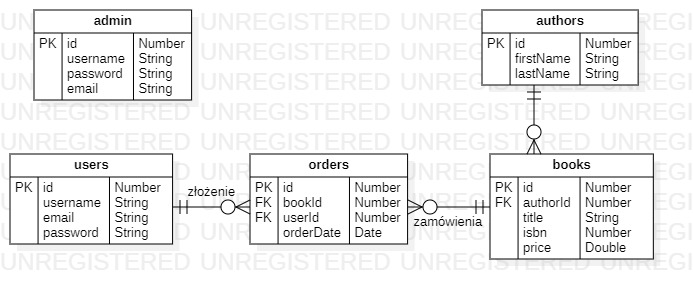
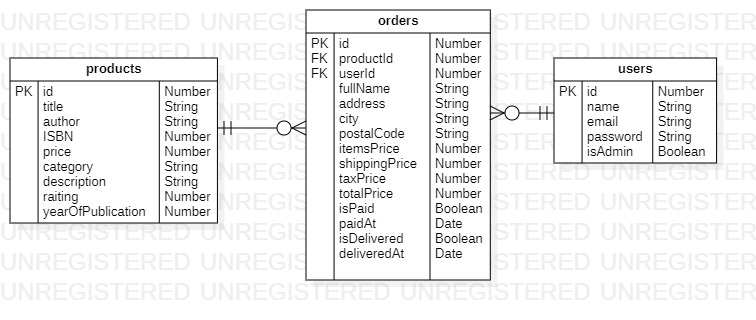
correct ReadMe and userModel

diff --git a/backend/models/userModel.js b/backend/models/userModel.js
@@ -3,8 +3,6 @@ import mongoose from "mongoose";
 const userSchema = new mongoose.Schema(
   {
     name: { type: String, required: true },
-    lastName: { type: String, required: true },
-    login: { type: String, required: true },
     email: { type: String, required: true, unique: true },
     password: { type: String, required: true },
     isAdmin: { type: Boolean, default: false, required: true },

diff --git a/backend/models/orderModel.js b/backend/models/orderModel.js
@@ -21,7 +21,6 @@ const orderSchema = new mongoose.Schema(
       address: { type: String, required: true },
       city: { type: String, required: true },
       postalCode: { type: String, required: true },
-      country: { type: String, required: true },
     },
     itemsPrice: { type: Number, required: true },
     shippingPrice: { type: Number, required: true },

diff --git a/README.md b/README.md
@@ -54,8 +54,10 @@ Użytkownicy będą mogli:
 &nbsp;&nbsp;
 # 2. Dokumentacja techniczna
 ## Architektura
-![architektura.png](src_readme/architektura.png)
+<div align="center">
 
+![architektura.png](src_readme/architektura.png)
+</div>
 Strona internetowa księgarni składa się z:
 - frontendu napisanego w bibliotece JavaScriptu jaką jest Reactjs
 - backendu napisanego w Nodejs
@@ -73,8 +75,10 @@ Strona internetowa księgarni składa się z:
 Środowisko pracy jest gotowe!
 
 ## Struktura bazy danych
-![baza_danych.png](src_readme/bazaDanych.jpg)
+<div align="center">
 
+![baza_danych.png](src_readme/ERDDiagram1.jpg)
+</div>
 Zalogowany użytkownik dokonuje zamówienia. Może on dokonać większej liczby zamówień, jednak jedno zamówienie jest przypisane dokładnie do jednego użytkownika. To samo dotyczy książki występującej w kilku zamówieniach jednak każde zamówienie jest przypisane do jednej książki. Podobnie jest z autorami: jeden autor może posiadać kilka książek jednak jedna książka posiada dokładnie jednego autora.
 
 Skróty:
@@ -82,131 +86,166 @@ Skróty:
 * FK - oznacza klucz obcy, który wskazuje na klucz główny innej tabeli np. w tabeli books klucz obcy wskazuje na klucz główny z tabeli authors.
 
 ## Rejsetracja
-![Rejestracja.jpg](src_readme/Rejestracja.jpg)
+<div align="center">
 
+![Rejestracja.jpg](src_readme/Rejestracja.jpg)
+</div>
 Klient wprowadza dane potrzebne do rejestracji w formularzu. Następnie po zatwierdzeniu danych, Strona dokonuje walidacji danych(sprawdzenie czy podany ciąg znaków w e-mailu to na pewno e-mail, długość podanego hasła). Po tej operacji wysyłane jest zapytanie do Bazy danych, czy znajduje się w niej użytkownik o podanych danych z formularza. Po tym sprawdzeniu Strona wysyła Klientowi odpowiedni komunikat.
 
 ## Logowanie
-![Logowanie.jpg](src_readme/Logowanie.jpg)
+<div align="center">
 
+![Logowanie.jpg](src_readme/Logowanie.jpg)
+</div>
 Klient wypełnia formularz jaki znajduje się na stronie logowania. Następnie wysłane przez Klienta dane są poddane walidacji, potem wysyłane jest zapytanie do Bazy danych czy istnieje użytkownik o podanych danych. Baza danych zwraca odpowiedź i w zależności od tej odpowiedzi Strona przekazuje Klientowi komunikat.
 ## Kod
 ### Server
-![server.jpg](src_readme/server.png)
+<div align="center">
 
+![server.jpg](src_readme/server.png)
+</div>
 W liniach od 12 do 19 następuje połączenie z bazą danych(MongoDb). W liniach 22 i 23 następuje wywołanie wbudowanych funkcji middleware wbudowanych w expressJs.
 Pierwsza z nich analizuje przychodzące żądania JSON i umieszcza przeanalizowane dane w właściowści req.body. Natomiast druga rozpoznaje nadchodzący obiekt żądania jako łańcuch znaków(string) lub tablicę. W liniach 24-28 przedstawiono jakie funkcje będą wywoływane gdy żądanie będzie zawierało określoną ścieżkę. Do zmiennej __dirname przypisywana jest bezwzględna ścieżka do bieżącego folderu. W linii 31 funkcja static znajduje i zwraca pliki statyczne z podanej ścieżki. W kolejnej linii za pomocą GET-a wysyłany jest plik index.html. Natomiast w linii 38 następuje przypisanie numeru portu(jeżeli nie jest przypisana żadna wartość do zmiennej środowiskowej przypisz zmiennej wartość 5000). Następnie funkcja listen wiąże i nasłuchuje połączeń na localhoscie.
 
 ### Utils
-![utilsgenerateToken.jpg](src_readme/utilsgenerateToken.png)
+<div align="center">
 
+![utilsgenerateToken.jpg](src_readme/utilsgenerateToken.png)
+</div>
 Tworzony jest token dla danego użytkownika, który jest ważny przez 30 dni. JWT(JSON Web Token) to standard za pomocą, którego przesyłane są informacje, w obiekcie JSON, między stronami. W liniach 5-8 znajdują się dane użytkownika, w linii 10 jest sekretny klucz/token potrzebny przy tworzeniu tokenu użytkownika a linia 12 to ustawienie opcji kiedy wygaśnie token.
+<div align="center">
 
 ![utilsisAuth.jpg](src_readme/utilsisAuth.png)
-
+</div>
 Do zmiennej authorization przekazywana jest wartość jaką zawiera nagłówek w sekcji authorization. Jeżeli authorization jest nullem zostanie wysłany komunikat o braku tokenu. W przeciwnym razie sprawdzany jest token jaki został przesłany w nagłówku. Jeżeli token jest błędny zwrócona zostanie odpowiednia informacja o błędzie, natomiast jeżeli token jest poprawny to do właściwości żądania(req.user) zostanie przypisana zakodowana wartość tokenu.
+<div align="center">
 
 ![utilsisAdmin.jpg](src_readme/utilsisAdmin.png)
-
+</div>
 Sprawdzenie czy dany użytkownik posiada uprawnienia administratora, jeżeli nie zostanie wysłany odpowiedni komunikat. W przeciwnym wypadku następuje przejście do panelu administratora.
 
 ### SeedRouter
-![seedRoutes.jpg](src_readme/seedRoutes.png)
+<div align="center">
 
+![seedRoutes.jpg](src_readme/seedRoutes.png)
+</div>
 Gdy użytkownik otworzy stronę główną zostanie wykonana asynchroniczna funkcja, która w linii 9 oraz 11 usunie wcześniejsze rekordy produktów oraz użytkowników. Następnie utworzy tablice produktów i użytkowników(linie 10 i 12), które są wysyłane jako odpowiedź dla żądania.
 
 ### ProductRouter
-![productRoutes.jpg](src_readme/productRoutes.png)
+<div align="center">
 
+![productRoutes.jpg](src_readme/productRoutes.png)
+</div>
 Podobnie jak w seedRouter.js po otworzeniu strony głównej(chodzi o metodę GET) wykona się asynchroniczna funkcja, która wyszuka wszystkie produkty i zapisze je do tablicy products, która następnie zostanie wysłana jako odpowiedź, by w seedRouter zostać usunięta.  Natomiast metoda POST dla strony głównej wykona funkcję tworzącą nowy produkt, jest ona dostępna tylko dla klientów posiadających konto w księgarni lub administratora.
+<div align="center">
 
 ![productRouteP2.jpg](src_readme/productRouteP2.png)
-
+</div>
 Metoda PUT wywołuje asynchroniczną funkcję, która wykonuje modyfikację produktu, którego id zostało podane jako parametr w URL. Jeżeli nie istnieje produkt o podanym id to zwracany jest komunikat o błędzie.
+<div align="center">
 
 ![productRouteP3.jpg](src_readme/productRouteP3.png)
-
+</div>
 Metoda DELETE umożliwia, uprawnionym do tego użytkownikom, usunięcie produktu o podanym w parametrze numerze id. Natomiast metoda GET, wywołuje funkcję tworzącą listę produktów. Najpierw tworzy ona obiekt query na podstawie req(obiektu żądania) i przypisuje do stałych page i pageSize wartość odpowiednich pól obiektu query, jeżeli pole tego obiektu nie posiada żadnej wartości to do stałej przypisywana jest druga z możliwych wartości. Na przykład query.page nie posiada żadnej liczby to do stałej page przypisywana jest liczba 1.
+<div align="center">
 
 ![productRouteP4.jpg](src_readme/productRouteP4.png)
-
+</div>
 Jeżeli adres URL będzie zawierał “/slug/:slug” lub “/:id” to zostanie znaleziony, o ile istnieje w bazie danych, produkt a następnie wysłany jako odpowiedź, jeżeli nie istnieje produkt z danym id lub slug to zostanie wysłany komunikat informujący o braku takiego produktu. Metoda GET wyszuka wszystkie kategorie(dzięki funkcji distnict() kategorie zostaną wyszukane bez powtórzeń) dla pola “category” modelu Product.
 
 ### UserRouter
-![userRoutes.jpg](src_readme/userRoutes.png)
+<div align="center">
 
+![userRoutes.jpg](src_readme/userRoutes.png)
+</div>
 Metoda DELETE usuwa użytkownika jeżeli zostaną spełnione następujące warunki:
 - id, które zostało przekazane jako parametr wskazuje na istniejącego w bazie danych użytkownika
 - użytkownikiem, który ma być usunięty NIE jest administrator.
 
 Jeżeli oba warunki są spełnione to po wykonaniu operacji usuwania użytkownika zwracany jest komunikat o wykonaniu operacji. Natomiast jeżeli jeden z tych warunków nie jest spełniony zwracany jest komunikat o błędzie.
+<div align="center">
 
 ![userRouteP2.jpg](src_readme/userRouteP2.png)
-
+</div>
 Metoda GET zwraca danego użytkownika, jeżeli podane id wskazuje na istniejącego w bazie danych użytkownika. Natomiast metoda PUT dokonuje modyfikacji wybranego użytkownika. Nowe wartości do odpowiednich pól użytkownika(linie 45-46) są przypisywane jeżeli istnieją one w req.body w przeciwnym wypadku pozostają stare dane.
+<div align="center">
 
 ![userRouteP3.jpg](src_readme/userRouteP3.png)
-
+</div>
 Metoda GET zwraca tablicę użytkowników, gdy w routingu pojawi się adres do strony głównej. Natomiast POST obsługuje operację rejestracji, tzn. tworzy obiekt newUser i wypełnia jego pola danymi podanymi przez klienta(hasło zostaje zahaszowane za pomocą bcrypt-a). Następnie jest on zapisywany do bazy danych, a jako odpowiedź(res) zostaje wysłany nowoutworzony użytkownik z wygenerowanym tokenem(linia 77).
+<div align="center">
 
 ![userRouteP4.jpg](src_readme/userRouteP4.png)
-
+</div>
 Za pomocą metody PUT zalogowany użytkownik może zaktualizować swój e-mail oraz nazwę(name).  Przy każdej aktualizacji danych generowany jest nowy token.
+<div align="center">
 
 ![userRouteP5.jpg](src_readme/userRouteP5.png)
-
+</div>
 W POST następuje sprawdzenie czy e-mail, który podał użytkownik istnieje w bazie danych. Jeśli istnieje następnie jest sprawdzane hasło podane przez klienta z tym z bazy danych. Jeżeli użytkownik podał poprawne hasło oraz email to wysyłany jest obiekt zawierający dane na temat tego klienta(linie 16-20). W przeciwnym wypadku zostanie wysłany do użytkownika komunikat o niepoprawnym mailu lub haśle.
 
 ### OrderRouter
-![orderRouteP1.jpg](src_readme/orderRouteP1.png)
+<div align="center">
 
+![orderRouteP1.jpg](src_readme/orderRouteP1.png)
+</div>
 W momencie gdy użytkownik będzie chciał usunąć zamówienie to do orderRouter zostanie przesłany parametr :id z numerem indeksu danego zamówienia. Asynchroniczna funkcja najpierw sprawdzi czy istnieje zamówienie o takim indeksie, jeżeli nie to zwróci komunikat o błędzie w przeciwnym wypadku usunie zamówienie(linia 15) i zwróci komunikat o usuniętym zamówieniu.
+<div align="center">
 
 ![orderRouteP2.jpg](src_readme/orderRouteP2.png)
-
+</div>
 Pierwsza z pokazanych funkcji pozwoli zalogowanemu użytkownikowi na zmienienie informacji o dostarczonym zamówieniu. W pierwszej kolejności funkcja sprawdzi czy istnieje zamówienie o podanym id. Jeżeli nie to zwróci komunikat o błędzie w przeciwnym wypadku zmieni pole isDelivered z false na true a polu deliveredAt przypisze datę dostarczenia zamówienia. Potem zapisze zmiany jakie zaszły w zamówieniu i zwróci komunikat.
 Natomiast druga funkcja, dla zalogowanego użytkownika lub administratora,  wyszuka w zamówieniach użytkowników i zwróci ich pola name.
+<div align="center">
 
 ![orderRouteP3.jpg](src_readme/orderRouteP3.png)
-
+</div>
 Gdy metoda POST otrzyma żądanie ze strony głównej od zalogowanego użytkownika, uruchomi funkcję z linii 53. Funkcja ta utworzy i zapisze nowe zamówienie na podstawie danych z żądania oraz zwróci komunikat o utworzeniu zamówienia.
+<div align="center">
 
 ![orderRouteP4.jpg](src_readme/orderRouteP4.png)
-
+</div>
 Metoda GET(dla administratora lub użytkownika posiadającego konto) w momencie gdy w pasku URL pojawi się “/summary” wykona “streszczenie”:
 - zamówień(linie 71-76), które będzie zawierało liczbę zamówień oraz sumę cen wszystkich zamówień,
 - użytkowników - zliczy liczbę klientów
 - dziennych zamówień - oprócz podania liczby zamówień oraz sumy ich cen posortuje je rosnąco
 - kategorii produktów.
+<div align="center">
 
 ![orderRouteP5.jpg](src_readme/orderRouteP5.png)
-
+</div>
 Pierwsza metoda GET zwróci zalogowanemu użytkownikowi wszystkie zamówienia jakie należą do niego. Natomiast druga metoda zwróci zamówienie o podanym id(jeżeli nie istnieje zamówienie o takim numerze indeksu zostanie zwrócony komunikat o błędzie).
+<div align="center">
 
 ![orderRouteP6.jpg](src_readme/orderRouteP6.png)
-
+</div>
 Gdy użytkownik będzie chciał zapłacić za zamówienie to metoda PUT sprawdzi czy istnieje zamówienie o podanym id, dla istniejącego zamówienia zmodyfikuje w następujący sposób pola: isPaid przypisze wartość true, paidAt przypisze datę, paymentResult uaktualni jego pola. Następnie zapisze modyfikacje danego zamówienia.
 
 ### UserModel i ProductModel
+<div align="center">
 
 ![productModel.jpg](src_readme/productModel.png)
 ![userModel.jpg](src_readme/userModel.png)
-
+</div>
 Za pomocą paczki mongoose został utworzony schemat użytkownika oraz produktu (schemat pozwala zdefiniować pola przechowywane w każdym dokumencie wraz z ich wymogami walidacji i wartościami domyślnymi). Następnie za pomocą tego schematu tworzony jest model User i Product. Oprócz określania, które pole jest wymagane można też określić jakie pola mają być unikalne oraz ustawiać wartości domyślne.
 
 ### OrderModel
+<div align="center">
 
 ![orderModelPart1.jpg](src_readme/orderModelPart1.png)
 ![orderModelPart2.jpg](src_readme/orderModelPart2.png)
-
+</div>
 Model zamówienia zawiera dane produktu(linie 4-17), adresu zakupu(18-24) oraz ceny, kiedy dokonano zapłaty i który z użytkowników dokonał zamówienia.
 
 &nbsp;&nbsp;
 # 3. Dokumentacja użytkownika
 
-### Logowanie do serwisu
+## Logowanie do serwisu
+<div align="center">
+
 ![navbar.jpg](src_readme/navbar.png)
 
+</div>
 Po wejściu na stronę główną należy kliknąć na ikonę znajdującą się w prawym górnym rogu(tą z napisem “Profil”). Użytkownik zostanie przeniesiony do strony logowania(jak pokazano na poniższym screenie).
 <div align="center">
 
@@ -215,7 +254,7 @@ Po wejściu na stronę główną należy kliknąć na ikonę znajdującą się w
 </div>
 Jeżeli użytkownik posiada konto wystarczy, że wprowadzi login i hasło oraz kliknie przycisk “Zaloguj” aby uzyskać dostęp do niego. Jeżeli wprowadzone dane do logowania są błędne pojawi się odpowiedni komunikat(np.”Niepoprawny email”).
 
-### Rejestracja
+## Rejestracja
 W przypadku gdy osoba nie posiada konta należy na stronie logowania kliknąć przycisk “Załóż konto” znajdujący się pod przyciskiem “Zaloguj”. W tym momencie zostanie wyświetlona strona przedstawiona na poniższym screenie
 
 <div align="center">
